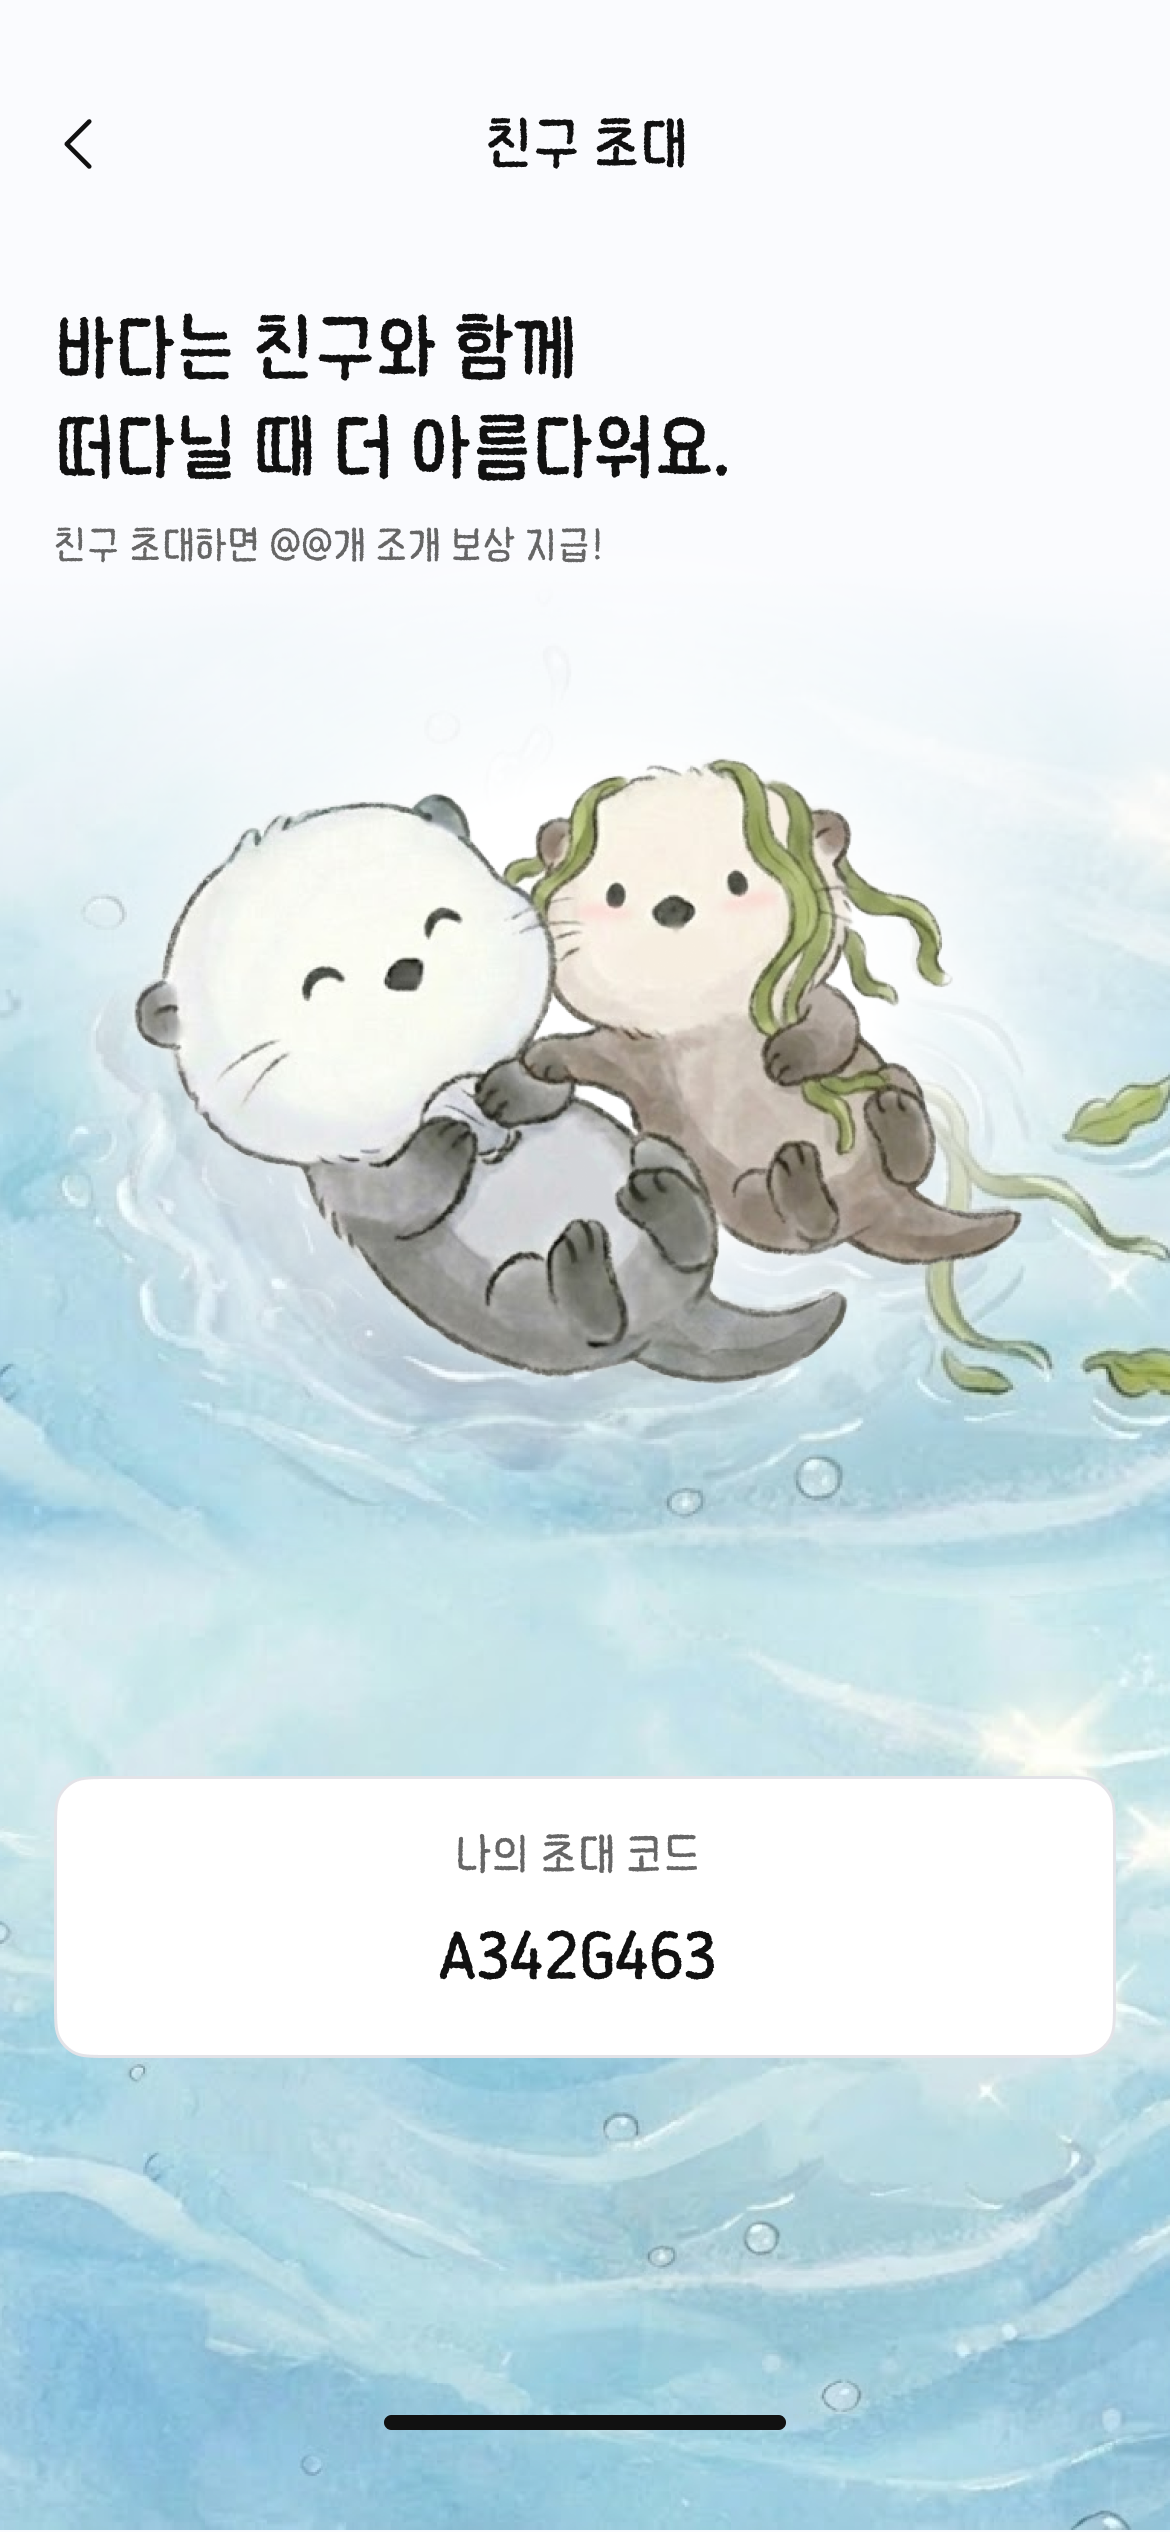
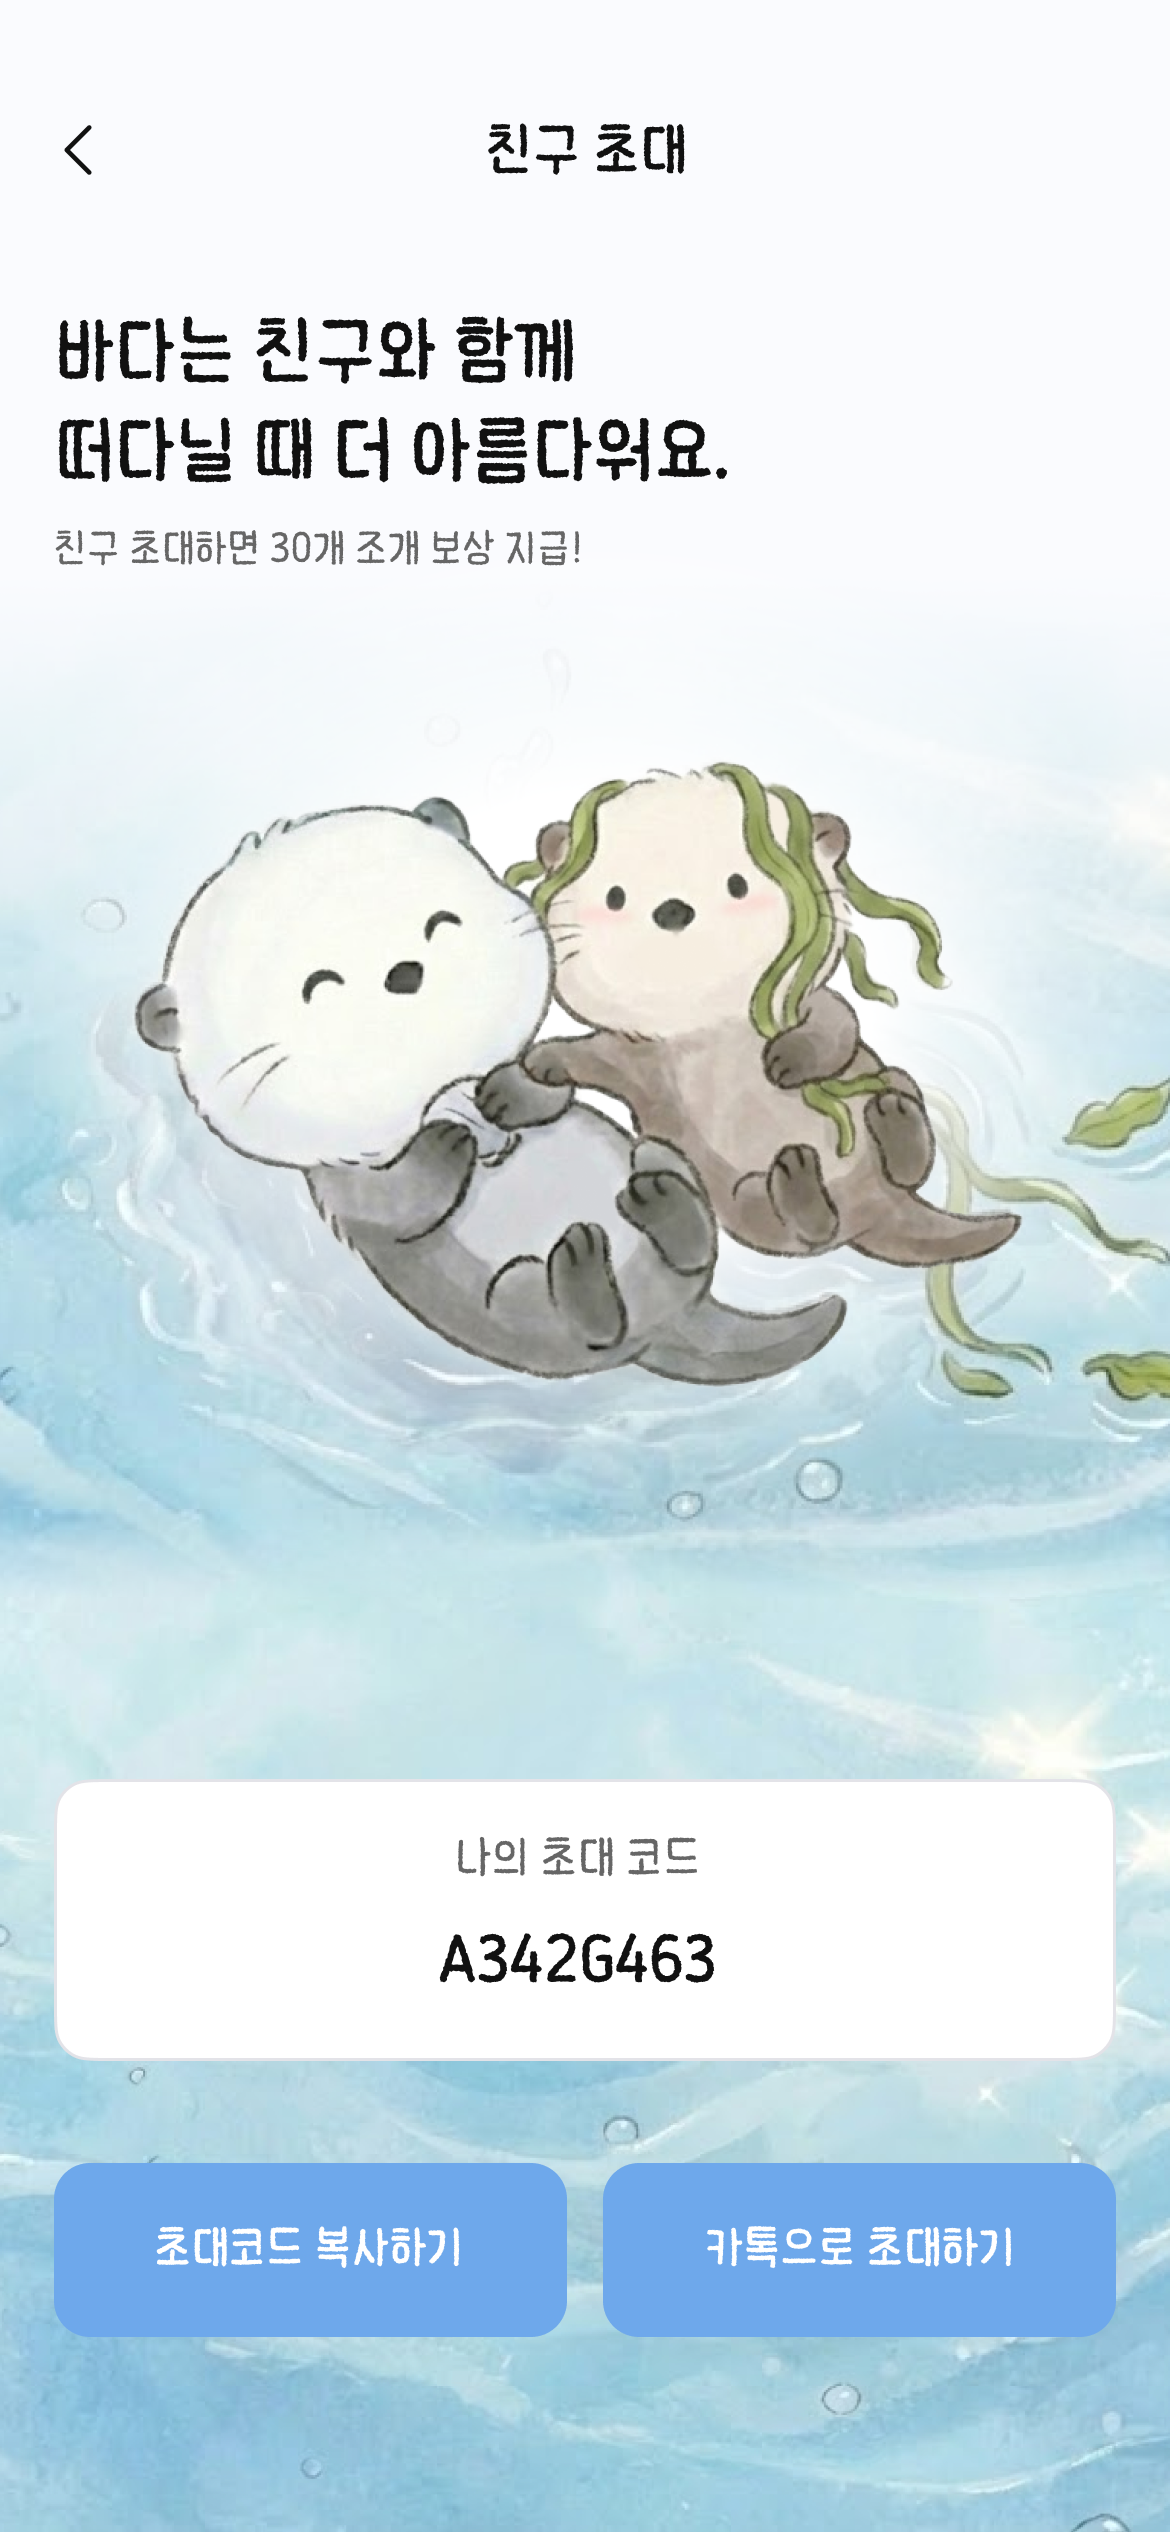
구글 맵 대체 사진 지정 및 친구 코드 페이지 연결

diff --git a/lib/src/view/pages/memory/timeline_memory_page.dart b/lib/src/view/pages/memory/timeline_memory_page.dart
@@ -1,5 +1,4 @@
 import 'package:flutter/material.dart';
-import 'package:google_maps_flutter/google_maps_flutter.dart';
 import 'package:uyoung/data/font_style.dart';
 import 'package:uyoung/data/model/memory/memory_item_model.dart';
 import 'package:uyoung/data/model/memory/memory_post_model.dart';
@@ -21,21 +20,6 @@ class TimelineMemoryPage extends StatefulWidget {
 }
 
 class _TimelineMemoryPageState extends State<TimelineMemoryPage> {
-  GoogleMapController? _mapController;
-
-  // 일단 고정 도쿄 (나중에 선택 위치에 따라 변경 가능)
-  static const CameraPosition _initialPosition = CameraPosition(
-    target: LatLng(35.6595, 139.7005),
-    zoom: 13,
-  );
-
-  final Set<Marker> _markers = {
-    const Marker(
-      markerId: MarkerId("base"),
-      position: LatLng(35.6595, 139.7005),
-    ),
-  };
-
   String? _selectedDate; // ex) "12월 7일"
 
   @override
@@ -77,15 +61,11 @@ class _TimelineMemoryPageState extends State<TimelineMemoryPage> {
       appBar: MemoryCommonAppBar(title: widget.item.title),
       body: Column(
         children: [
-          // MAP
+          // ✅ MAP 자리 -> 이미지로 대체
           SizedBox(
             height: 300,
-            child: GoogleMap(
-              initialCameraPosition: _initialPosition,
-              zoomControlsEnabled: false,
-              markers: _markers,
-              onMapCreated: (c) => _mapController = c,
-            ),
+            width: double.infinity,
+            child: Image.asset('assets/images/map.png', fit: BoxFit.cover),
           ),
 
           Expanded(
@@ -242,7 +222,7 @@ class _TimelineMemoryPageState extends State<TimelineMemoryPage> {
     final map = <String, List<_PhotoKeyed>>{};
 
     for (final p in photos) {
-      // ✅ 핵심 수정: LocationDummy의 key는 "이미지 경로"다
+      // ✅ LocationDummy의 key는 "이미지 경로"라고 가정
       final info = MemoryLocationDummy.get(p.imagePath);
 
       // label 우선, 없으면 groupKey, 그것도 없으면 "위치 미지정"

diff --git a/lib/src/view/pages/mypage/invite_fake_page.dart b/lib/src/view/pages/mypage/invite_fake_page.dart
@@ -5,14 +5,17 @@ class InviteFakePage extends StatelessWidget {
 
   @override
   Widget build(BuildContext context) {
+    final w = MediaQuery.of(context).size.width;
+
     return Scaffold(
       backgroundColor: Colors.white,
-      body: SafeArea(
-        child: SingleChildScrollView(
-          physics: const BouncingScrollPhysics(),
+      body: SingleChildScrollView(
+        physics: const BouncingScrollPhysics(),
+        child: Padding(
+          padding: const EdgeInsets.only(top: 25),
           child: Image.asset(
             'assets/images/invite_friend.png',
-
+            width: w,
             fit: BoxFit.fitWidth,
           ),
         ),
